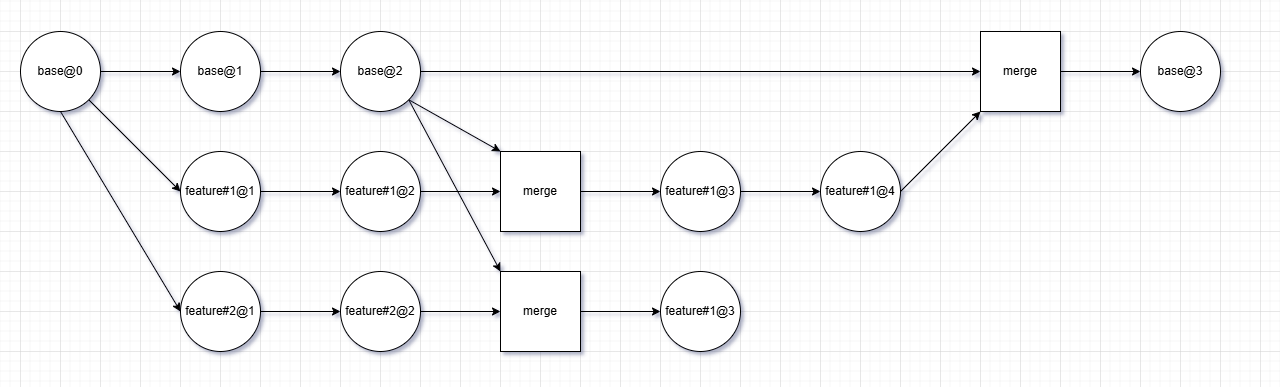
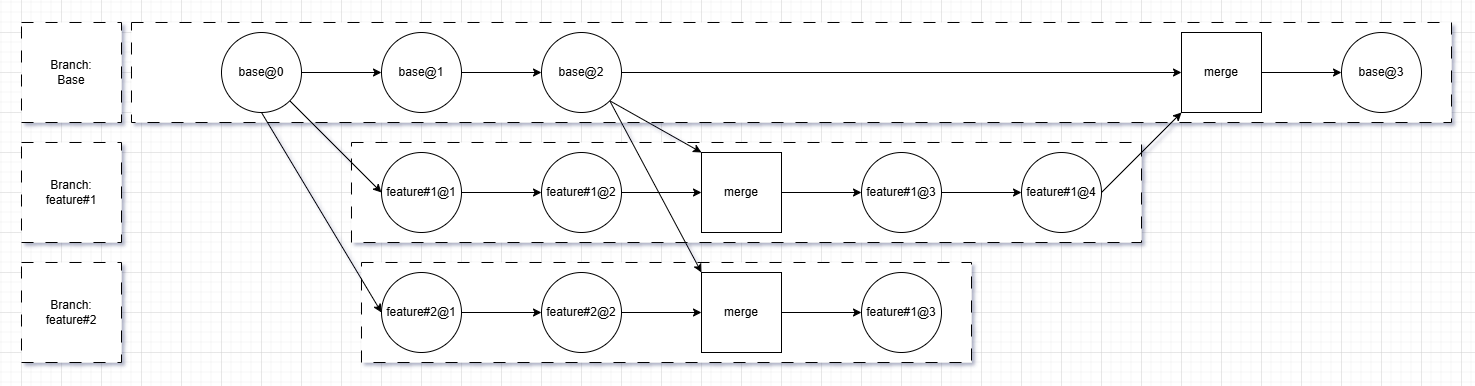
changed

diff --git a/.private/docs/gettingStarted.md b/.private/docs/gettingStarted.md
@@ -2,11 +2,20 @@
 
 ## Git basic
 
+
 ### Git? GitHub?
+
+- Git – A version control system that tracks changes in your code and allows you to manage different versions of a project locally.
+
+- GitHub – A cloud-based platform that hosts Git repositories, making it easy to collaborate, share, and back up your projects online.
 
 ### Commit?
 
+Commit – A snapshot of your changes in the repository. Each commit represents a saved point in your project’s history.
+
 ### Branch?
+
+Branch – A separate line of development. You can create branches to work on new features or fixes without affecting the main code.
 
 ### Commit - A recovery point for your code
 
@@ -30,7 +39,7 @@ Result:
 
 Description:
 
-- `On branch base` : You’re currently on the base branch.
+- `On branch base` : You’re currently on the `base` branch.
 - `Your branch is ahead of 'origin/base' by 2 commits.` : You have two local commits that haven’t been pushed to GitHub yet.
 - `Changes not staged for commit:` : These are tracked files that have been modified but not added to the next commit.
 - `Untracked files:` : These are new files not yet tracked by Git. You may have just created or added them.
@@ -62,6 +71,8 @@ git commit
 ```
 
 Result:
+
+![alt text](../imgs/gettingStarted2.png)
 
 ### Conflicts - Unavoidable
  
